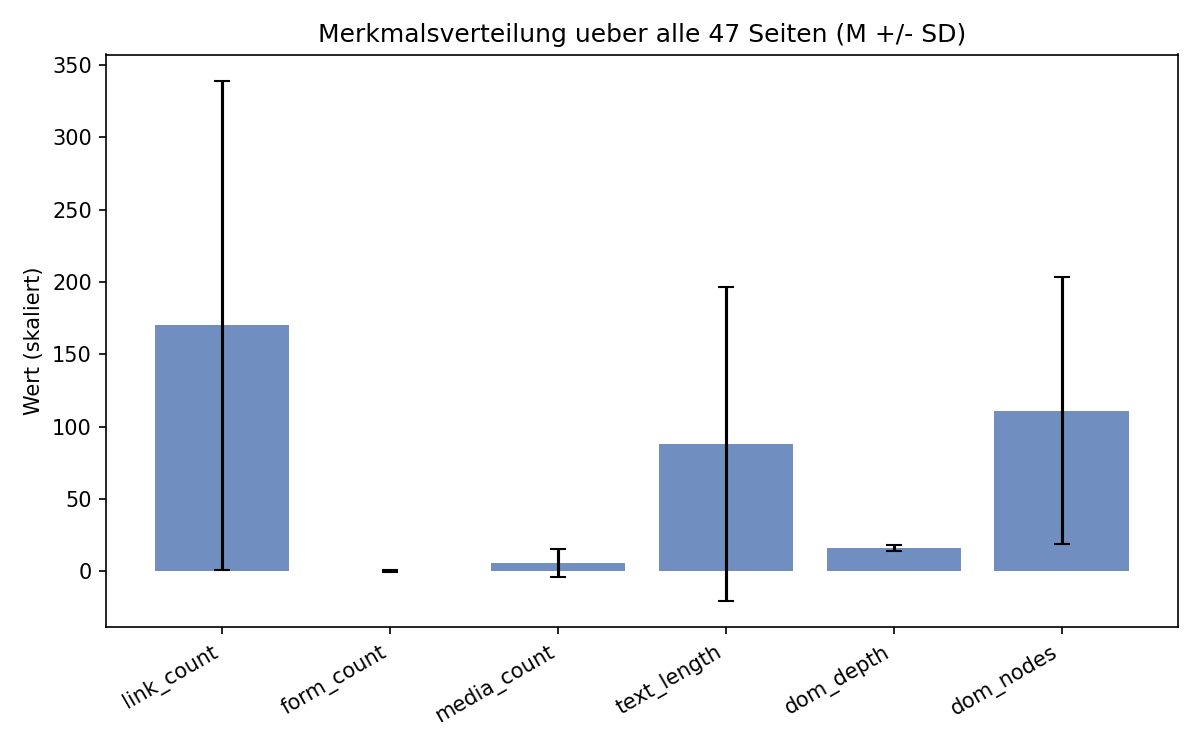
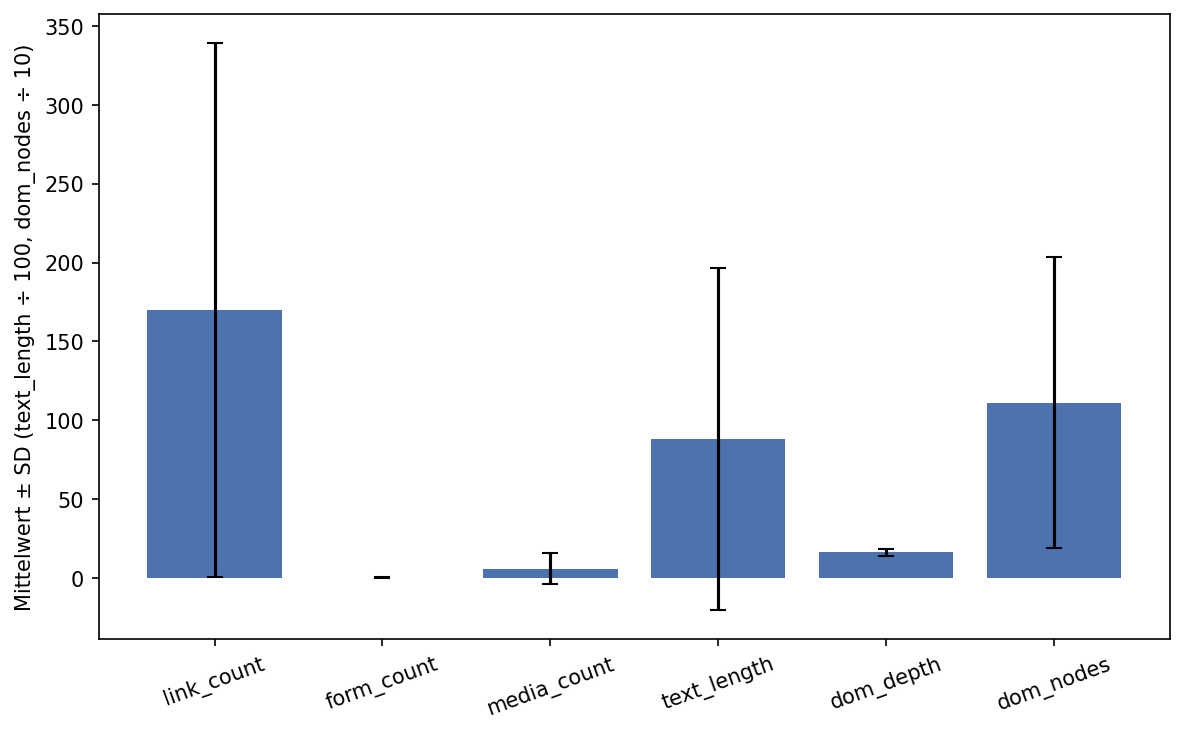
check_web_analysis.py: Paper-2-Kennzahlen reproduzierbar machen (Review8 #11)
Reproduziert aus new_web_features.csv mit dokumentierten Seeds:
Tabellen 1-6, k-Scan, Baseline, Dekorrelations-Analyse (neu),
MDI/Permutation-Importance, CV + Einzel-Split (Aufruf dokumentiert:
random_state=42, ohne stratify), Silhouette-Bootstrap und Cluster-
Stabilität — plus beide Paper-2-Abbildungen. Tabellen 7/8 (Antwortzeit)
sind nicht reproduzierbar; das Skript weist darauf aus.

Seed-Korrekturen gegenüber früheren Paper-Angaben: Stabilität 0,986/min
0,717 (statt 0,997/0,935 — zuvor undokumentierte Saaten), Permutation
form_count 0,005 (statt 0,013). 7 neue Tests auf synthetischer CSV.

Die paper1_scatter-PNGs sind byte-ungleiche, inhaltlich identische
Regenerate aus check_correlations-Läufen (Matplotlib-Zeitstempel).

diff --git a/check_web_analysis.py b/check_web_analysis.py
@@ -1,0 +1,228 @@
+"""
+Reproduziert alle Kennzahlen aus Paper 2 (Webkomplexität) aus
+new_web_features.csv: Tabellen 1–6, k-Scan, Baseline, Dekorrelations-
+Analyse, Feature-Importance (MDI + Permutation), CV/Split, Silhouette-
+Bootstrap und Cluster-Stabilität — jeweils mit dokumentierten Seeds.
+
+Nicht reproduzierbar: Tabellen 7/8 (HTTP-Antwortzeiten). Die Messdaten
+(3 Wiederholungen, Median, je Seite) wurden nicht archiviert; die im
+Paper berichteten Werte beruhen auf der verlorenen Messung und sind dort
+als solche gekennzeichnet.
+
+Alle seeds sind fest dokumentiert; eine Änderungändert die Stabilitäts-
+und Permutations-Zahlen (seed-abhängige Größen).
+"""
+
+from __future__ import annotations
+
+from pathlib import Path
+
+import matplotlib
+matplotlib.use("Agg")
+import matplotlib.pyplot as plt
+import numpy as np
+import pandas as pd
+from sklearn.cluster import KMeans
+from sklearn.ensemble import RandomForestClassifier
+from sklearn.inspection import permutation_importance
+from sklearn.metrics import adjusted_rand_score, silhouette_score
+from sklearn.model_selection import cross_val_score, train_test_split
+from sklearn.preprocessing import StandardScaler
+
+CSV = Path("new_web_features.csv")
+FEATS = ["link_count", "form_count", "media_count", "text_length", "dom_depth", "dom_nodes"]
+DECORR = ["link_count", "dom_depth", "media_count", "form_count"]
+
+SEED_KMEANS = 42
+SEED_RF = 42
+SEED_PERM = 42
+SEED_SPLIT = 42          # ohne stratify — mit stratify ergäbe sich 0,833 statt 1,000
+SEED_BOOTSTRAP = 42
+SEED_STABILITY = 0
+N_BOOTSTRAP = 1_000
+N_STABILITY = 50
+
+
+def load(csv: Path | str = CSV) -> pd.DataFrame:
+    return pd.read_csv(csv)
+
+
+def _kmeans(X, k: int = 3, seed: int = SEED_KMEANS):
+    return KMeans(n_clusters=k, random_state=seed, n_init=10).fit_predict(X)
+
+
+def cluster_analysis(df: pd.DataFrame) -> dict:
+    X = StandardScaler().fit_transform(df[FEATS])
+    labels = _kmeans(X)
+    return {
+        "labels": labels,
+        "silhouette": silhouette_score(X, labels),
+        "ari_website": adjusted_rand_score(df["website"], labels),
+        "cluster_means": df.assign(cluster=labels).groupby("cluster")[FEATS].mean(),
+        "contingency": pd.crosstab(df["website"], labels),
+    }
+
+
+def k_scan(df: pd.DataFrame) -> dict[int, float]:
+    X = StandardScaler().fit_transform(df[FEATS])
+    return {k: float(silhouette_score(X, _kmeans(X, k)))
+            for k in range(2, 7)}
+
+
+def baseline(df: pd.DataFrame) -> dict:
+    X = StandardScaler().fit_transform(df[["link_count"]])
+    labels = _kmeans(X)
+    full = _kmeans(StandardScaler().fit_transform(df[FEATS]))
+    return {
+        "silhouette": float(silhouette_score(X, labels)),
+        "ari_to_full": float(adjusted_rand_score(full, labels)),
+    }
+
+
+def decorrelation(df: pd.DataFrame) -> dict:
+    """K-Means auf dem dekorrelierten Merkmalssatz (ohne text_length und
+    dom_nodes, die mit r = 0,81/0,72 an link_count hängen)."""
+    X = StandardScaler().fit_transform(df[DECORR])
+    labels = _kmeans(X)
+    full = _kmeans(StandardScaler().fit_transform(df[FEATS]))
+    base = _kmeans(StandardScaler().fit_transform(df[["link_count"]]))
+    return {
+        "silhouette": float(silhouette_score(X, labels)),
+        "sizes": np.bincount(labels).tolist(),
+        "ari_to_full": float(adjusted_rand_score(full, labels)),
+        "ari_to_baseline": float(adjusted_rand_score(base, labels)),
+        "contingency": pd.crosstab(df["website"], labels),
+        "cluster_means": df.assign(cluster=labels).groupby("cluster")[FEATS].mean(),
+    }
+
+
+def importance_and_cv(df: pd.DataFrame, labels) -> dict:
+    X, y = df[FEATS], labels
+    rf = RandomForestClassifier(n_estimators=100, random_state=SEED_RF).fit(X, y)
+    perm = permutation_importance(rf, X, y, n_repeats=30, random_state=SEED_PERM)
+    cv = cross_val_score(RandomForestClassifier(n_estimators=100, random_state=SEED_RF), X, y, cv=5)
+    Xtr, Xte, ytr, yte = train_test_split(X, y, test_size=0.25,
+                                          random_state=SEED_SPLIT)  # ohne stratify
+    split_acc = RandomForestClassifier(n_estimators=100, random_state=SEED_RF) \
+        .fit(Xtr, ytr).score(Xte, yte)
+    return {
+        "mdi": dict(zip(FEATS, rf.feature_importances_.round(3))),
+        "perm": dict(zip(FEATS, perm.importances_mean.round(3))),
+        "cv_folds": [round(float(v), 3) for v in cv],
+        "cv_mean": float(cv.mean()),
+        "split_acc": float(split_acc),
+    }
+
+
+def silhouette_bootstrap(df: pd.DataFrame, seed: int = SEED_BOOTSTRAP,
+                         n: int = N_BOOTSTRAP) -> tuple[float, float, float]:
+    X = StandardScaler().fit_transform(df[FEATS])
+    rng = np.random.default_rng(seed)
+    scores = []
+    for _ in range(n):
+        idx = rng.choice(len(X), size=len(X), replace=True)
+        Xb = X[idx]
+        lab = _kmeans(Xb)
+        if len(set(lab)) > 1:
+            scores.append(silhouette_score(Xb, lab))
+    s = np.array(scores)
+    return float(s.mean()), float(np.percentile(s, 2.5)), float(np.percentile(s, 97.5))
+
+
+def stability(df: pd.DataFrame, seed: int = SEED_STABILITY,
+              n: int = N_STABILITY) -> tuple[float, float]:
+    X = StandardScaler().fit_transform(df[FEATS])
+    ref = _kmeans(X)
+    rng = np.random.default_rng(seed)
+    aris = [adjusted_rand_score(ref, _kmeans(X, seed=int(s)))
+            for s in rng.integers(1, 100_000, n)]
+    return float(np.mean(aris)), float(np.min(aris))
+
+
+def make_figures(df: pd.DataFrame, labels, out_dir: Path = Path("figures")) -> None:
+    out_dir.mkdir(exist_ok=True)
+    # Abbildung 1: Merkmalsverteilung (M ± SD, skaliert wie im Paper)
+    means = [df[f].mean() for f in FEATS]
+    sds = [df[f].std(ddof=1) for f in FEATS]
+    scale = [1, 1, 1, 100, 1, 10]
+    fig, ax = plt.subplots(figsize=(8, 5))
+    ax.bar(FEATS, [m / s for m, s in zip(means, scale)],
+           yerr=[sd / s for sd, s in zip(sds, scale)], capsize=4, color="#4C72B0")
+    ax.set_ylabel("Mittelwert ± SD (text_length ÷ 100, dom_nodes ÷ 10)")
+    plt.xticks(rotation=20)
+    plt.tight_layout()
+    plt.savefig(out_dir / "paper2_abb1_feature_distribution_v2.png", dpi=150, bbox_inches="tight")
+    plt.close(fig)
+
+    # Abbildung 2: DOM-Tiefe × Links nach Cluster mit Zentren
+    X = StandardScaler().fit_transform(df[FEATS])
+    km = KMeans(n_clusters=3, random_state=SEED_KMEANS, n_init=10).fit(X)
+    fig, ax = plt.subplots(figsize=(8, 6))
+    for c in range(3):
+        m = labels == c
+        ax.scatter(df.loc[m, "dom_depth"], df.loc[m, "link_count"],
+                   s=45, alpha=0.75, label=f"Cluster {c}")
+    centers = km.cluster_centers_
+    ax.scatter(centers[:, FEATS.index("dom_depth")], centers[:, FEATS.index("link_count")],
+               marker="*", s=350, color="black", label="Zentrum")
+    ax.set_xlabel("dom_depth")
+    ax.set_ylabel("link_count")
+    ax.legend()
+    plt.tight_layout()
+    plt.savefig(out_dir / "paper2_abb2_cluster_scatter_v2.png", dpi=150, bbox_inches="tight")
+    plt.close(fig)
+
+
+def main() -> None:
+    df = load()
+    print(f"N = {len(df)} Seiten, Websites: {df['website'].value_counts().to_dict()}\n")
+
+    print("Tabelle 1 (Merkmalsverteilung):")
+    for f in FEATS:
+        print(f"  {f:12} M={df[f].mean():9.2f} SD={df[f].std():7.2f} "
+              f"min={df[f].min():6.0f} max={df[f].max():6.0f}")
+
+    print("\nTabelle 6 (Website-Mittelwerte):")
+    print(df.groupby("website")[FEATS].mean().round(1).to_string())
+
+    ca = cluster_analysis(df)
+    print(f"\nSilhouette k=3: {ca['silhouette']:.3f} | ARI Cluster×Website: {ca['ari_website']:.3f}")
+    print("Tabelle 3 (Kreuztabelle):")
+    print(ca["contingency"].to_string())
+    print("Tabelle 2 (Cluster-Mittelwerte):")
+    print(ca["cluster_means"].round(1).to_string())
+
+    print("\nk-Scan:", {k: round(v, 3) for k, v in k_scan(df).items()})
+    b = baseline(df)
+    print(f"Baseline link_count: Silhouette {b['silhouette']:.3f}, ARI zu 6-Merkmal {b['ari_to_full']:.3f}")
+
+    d = decorrelation(df)
+    print(f"\nDekorrelation ({', '.join(DECORR)}): Silhouette {d['silhouette']:.3f}, "
+          f"Sizes {d['sizes']}, ARI zu 6-Merkmal {d['ari_to_full']:.3f}, "
+          f"ARI zu Baseline {d['ari_to_baseline']:.3f}")
+    print(d["contingency"].to_string())
+
+    imp = importance_and_cv(df, ca["labels"])
+    print("\nTabelle 5 (MDI / Permutation):")
+    for f in FEATS:
+        print(f"  {f:12} MDI={imp['mdi'][f]:.3f}  Perm={imp['perm'][f]:.3f}")
+    print(f"Tabelle 4: CV-Folds {imp['cv_folds']} (M {imp['cv_mean']:.3f}), "
+          f"Einzel-Split ohne stratify: {imp['split_acc']:.3f}")
+
+    m, lo, hi = silhouette_bootstrap(df)
+    print(f"\nSilhouette-Bootstrap: M={m:.3f}, 95%-CI [{lo:.3f}, {hi:.3f}]")
+    smean, smin = stability(df)
+    print(f"Cluster-Stabilität (50 Seeds, rng(0)): M={smean:.3f}, min={smin:.3f}")
+
+    c = df[FEATS].corr().round(2)
+    print(f"Korrelationen: r(link,text)={c.loc['link_count', 'text_length']}, "
+          f"r(link,nodes)={c.loc['link_count', 'dom_nodes']}")
+
+    make_figures(df, ca["labels"])
+    print("\nAbbildungen geschrieben: figures/paper2_abb1_..._v2.png, paper2_abb2_..._v2.png")
+    print("HINWEIS: Tabellen 7/8 (Antwortzeit) sind hier NICHT reproduzierbar — "
+          "Messdaten wurden nicht archiviert (s. Paper, 4.6/Verfügbarkeit).")
+
+
+if __name__ == "__main__":
+    main()

diff --git a/tests/test_web_analysis.py b/tests/test_web_analysis.py
@@ -1,0 +1,86 @@
+"""Regressionstests für check_web_analysis.py (Paper-2-Reproduzierbarkeit).
+
+Prüft auf einer synthetischen CSV die Kernmechanik: deterministische
+Seeds, Cluster-/Baseline-/Dekorrelations-Berechnung und Abbildungs-Erzeugung.
+"""
+
+from __future__ import annotations
+
+import numpy as np
+import pandas as pd
+import pytest
+
+import check_web_analysis as cwa
+
+FEATS = cwa.FEATS
+
+
+@pytest.fixture
+def synth_csv(tmp_path):
+    """Drei klare Profil-Gruppen über zwei 'Websites'."""
+    rng = np.random.default_rng(7)
+    rows = []
+    for i in range(6):   # kleine, linkarme Seiten
+        rows.append({"website": "A", "link_count": 20 + i, "form_count": 0,
+                     "media_count": 0, "text_length": 800 + 50 * i,
+                     "dom_depth": 12, "dom_nodes": 300 + 10 * i})
+    for i in range(6):   # medienreiche, linkeiche Seiten
+        rows.append({"website": "B", "link_count": 300 + 10 * i, "form_count": 1,
+                     "media_count": 30 + i, "text_length": 4000 + 100 * i,
+                     "dom_depth": 15, "dom_nodes": 800 + 20 * i})
+    for i in range(6):   # Text-Hubs
+        rows.append({"website": "A", "link_count": 800 + 20 * i, "form_count": 0,
+                     "media_count": 0, "text_length": 20000 + 500 * i,
+                     "dom_depth": 18, "dom_nodes": 2000 + 50 * i})
+    p = tmp_path / "synth.csv"
+    pd.DataFrame(rows).to_csv(p, index=False)
+    return p
+
+
+class TestDeterminism:
+    def test_cluster_analysis_deterministic(self, synth_csv):
+        df = cwa.load(synth_csv)
+        r1 = cwa.cluster_analysis(df)
+        r2 = cwa.cluster_analysis(df)
+        assert (r1["labels"] == r2["labels"]).all()
+        assert r1["silhouette"] == r2["silhouette"]
+
+    def test_importance_deterministic(self, synth_csv):
+        df = cwa.load(synth_csv)
+        res = cwa.importance_and_cv(df, cwa.cluster_analysis(df)["labels"])
+        assert set(res["mdi"]) == set(FEATS)
+        assert len(res["cv_folds"]) == 5
+
+
+class TestClusterAnalysis:
+    def test_recoverable_structure(self, synth_csv):
+        # Die drei synthetischen Profile müssen als 3 Cluster zurückkommen
+        df = cwa.load(synth_csv)
+        ca = cwa.cluster_analysis(df)
+        sizes = sorted(np.bincount(ca["labels"]).tolist())
+        assert sizes == [6, 6, 6]
+        assert ca["silhouette"] > 0.4  # klare Trennung im Synthetikfall
+
+    def test_k_scan_covers_2_to_6(self, synth_csv):
+        scan = cwa.k_scan(cwa.load(synth_csv))
+        assert sorted(scan) == [2, 3, 4, 5, 6]
+        assert all(-1 <= v <= 1 for v in scan.values())
+
+    def test_baseline_runs(self, synth_csv):
+        b = cwa.baseline(cwa.load(synth_csv))
+        assert -1 <= b["silhouette"] <= 1 and -1 <= b["ari_to_full"] <= 1
+
+    def test_decorrelation_reports_ari_and_sizes(self, synth_csv):
+        d = cwa.decorrelation(cwa.load(synth_csv))
+        assert sum(d["sizes"]) == 18
+        assert len(d["contingency"]) == 2  # zwei Websites im Kreuz
+        assert d["ari_to_full"] >= 0       # gleiche Datenbasis
+
+
+class TestFigures:
+    def test_figures_written(self, synth_csv, tmp_path):
+        df = cwa.load(synth_csv)
+        labels = cwa.cluster_analysis(df)["labels"]
+        cwa.make_figures(df, labels, out_dir=tmp_path)
+        assert (tmp_path / "paper2_abb1_feature_distribution_v2.png").exists()
+        assert (tmp_path / "paper2_abb2_cluster_scatter_v2.png").exists()
